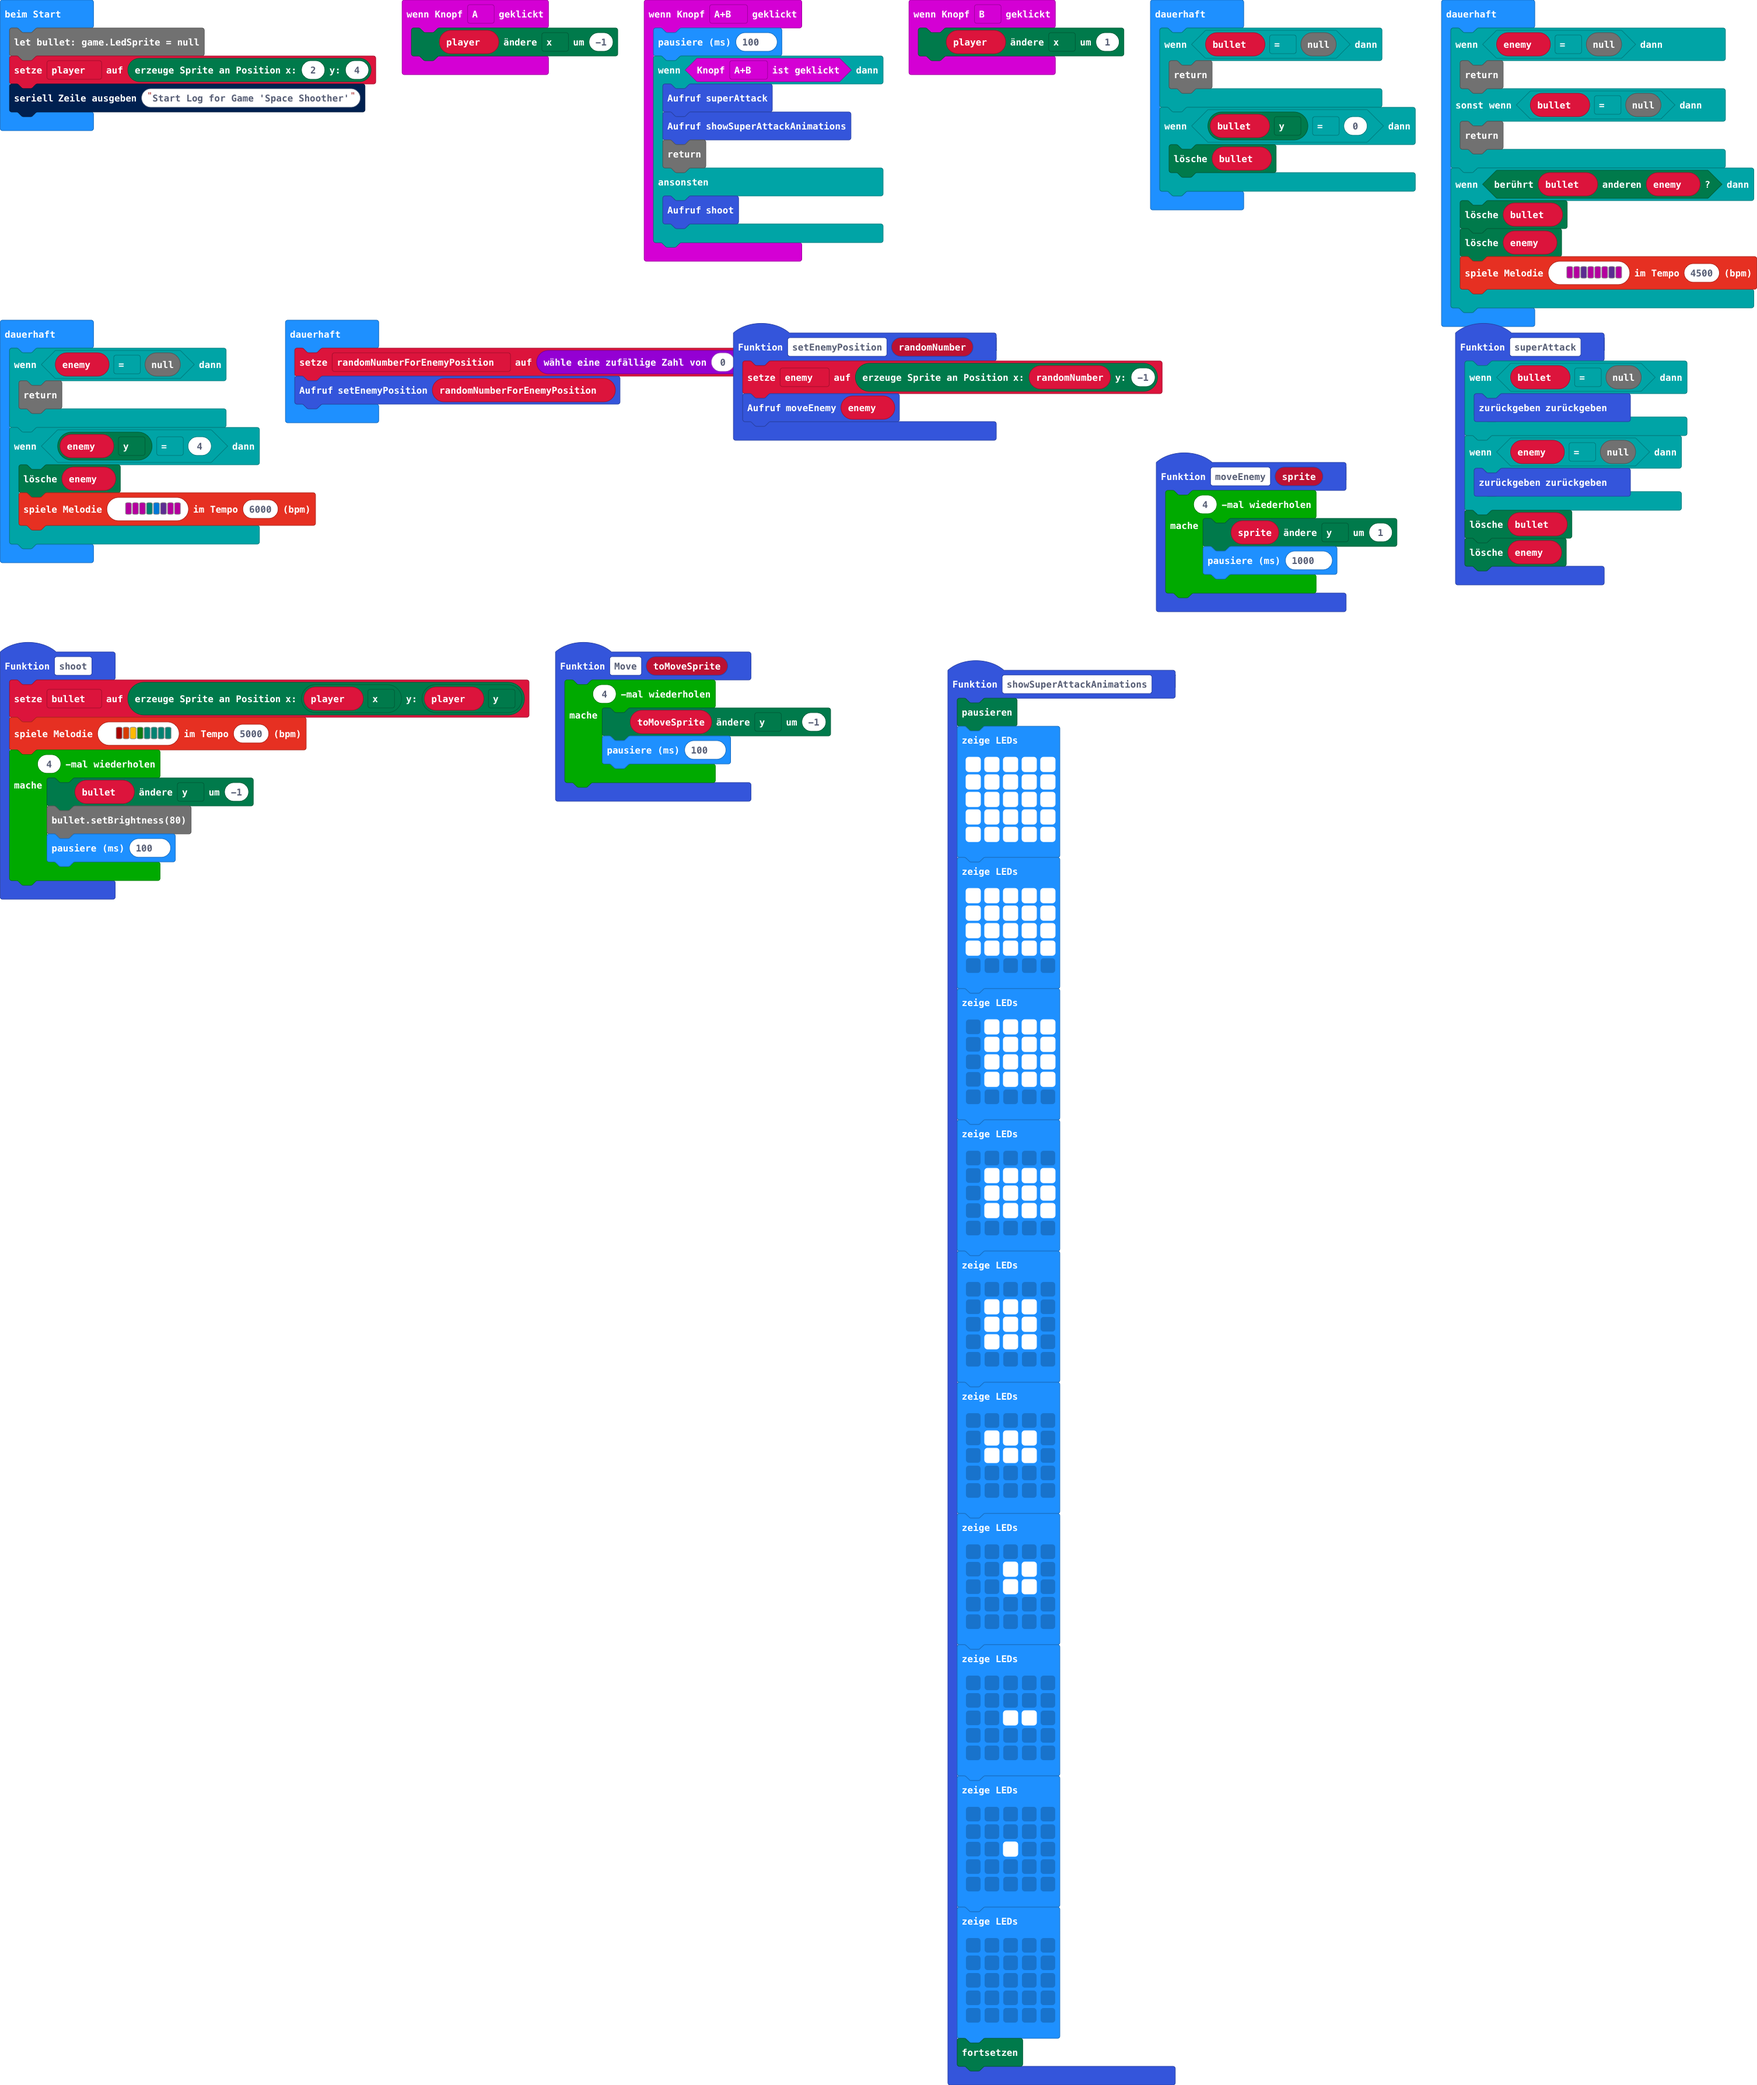
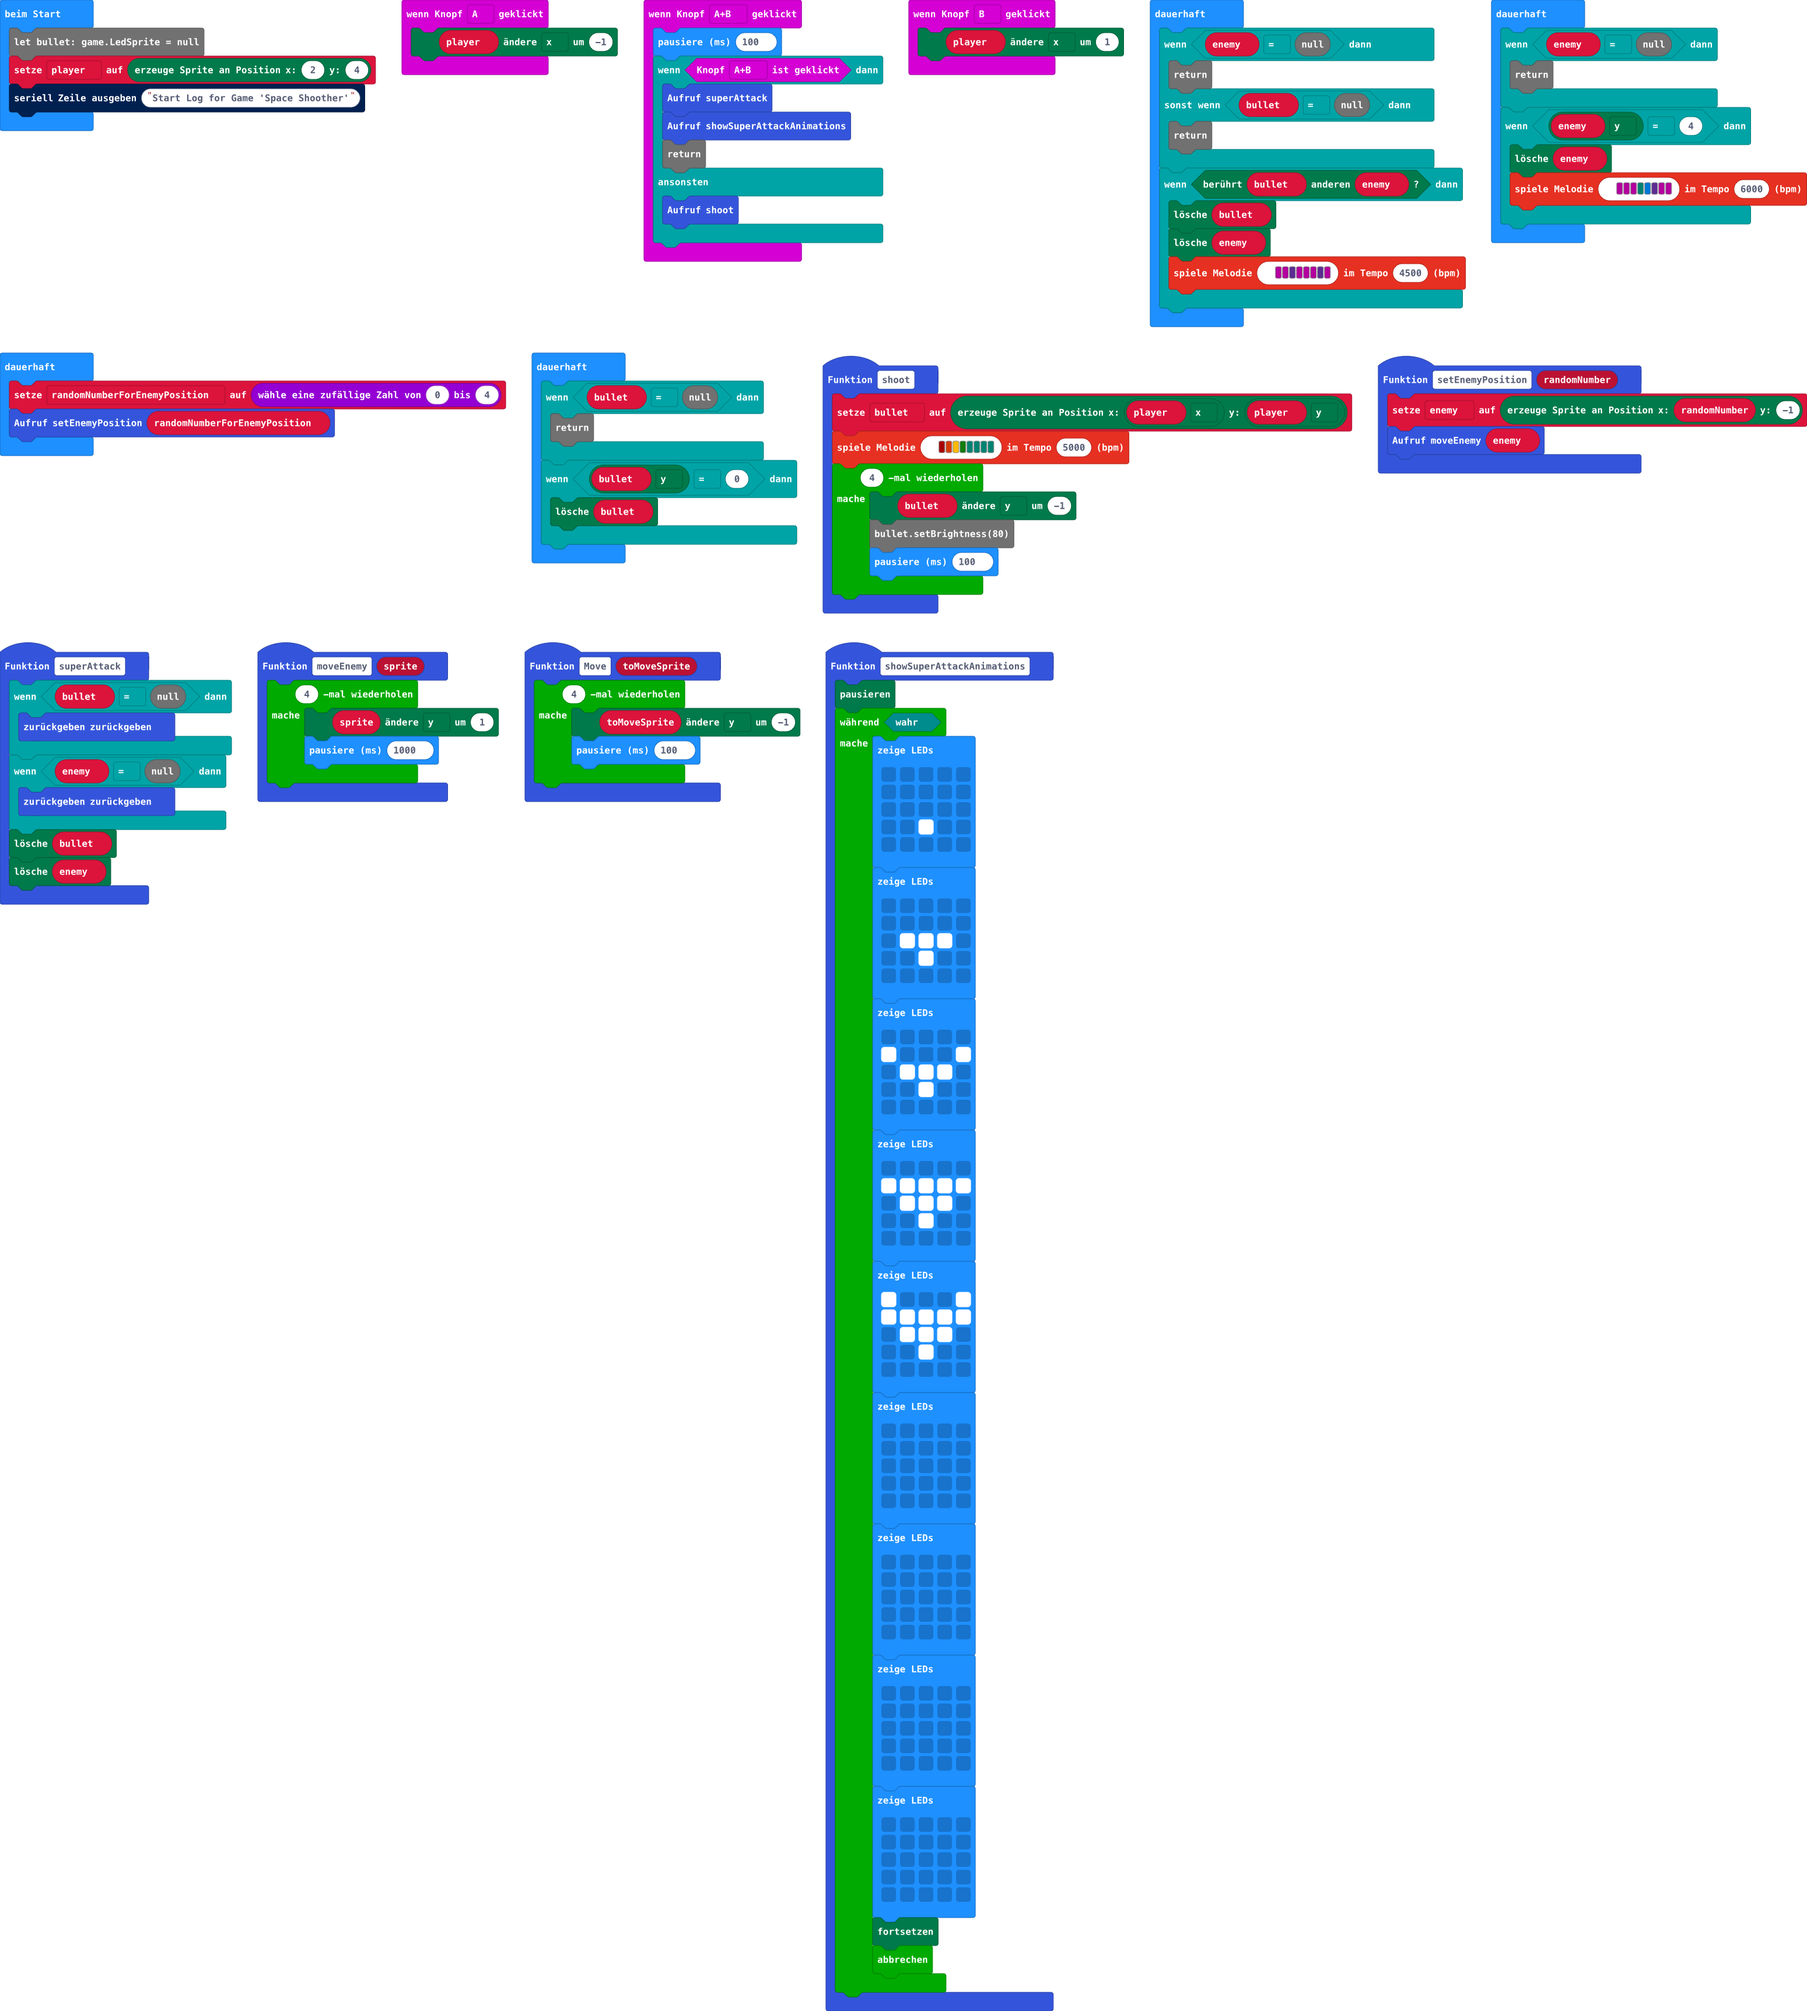
Aktualisiere pxt.json, main.blocks, main.ts

Changed region(s): [[0.0, 0.0, 1.0, 1.0]]

diff --git a/main.ts b/main.ts
@@ -3,77 +3,73 @@ input.onButtonPressed(Button.A, function () {
 })
 function showSuperAttackAnimations () {
     game.pause()
-    basic.showLeds(`
-        # # # # #
-        # # # # #
-        # # # # #
-        # # # # #
-        # # # # #
-        `)
-    basic.showLeds(`
-        # # # # #
-        # # # # #
-        # # # # #
-        # # # # #
-        . . . . .
-        `)
-    basic.showLeds(`
-        . # # # #
-        . # # # #
-        . # # # #
-        . # # # #
-        . . . . .
-        `)
-    basic.showLeds(`
-        . . . . .
-        . # # # #
-        . # # # #
-        . # # # #
-        . . . . .
-        `)
-    basic.showLeds(`
-        . . . . .
-        . # # # .
-        . # # # .
-        . # # # .
-        . . . . .
-        `)
-    basic.showLeds(`
-        . . . . .
-        . # # # .
-        . # # # .
-        . . . . .
-        . . . . .
-        `)
-    basic.showLeds(`
-        . . . . .
-        . . # # .
-        . . # # .
-        . . . . .
-        . . . . .
-        `)
-    basic.showLeds(`
-        . . . . .
-        . . . . .
-        . . # # .
-        . . . . .
-        . . . . .
-        `)
-    basic.showLeds(`
-        . . . . .
-        . . . . .
-        . . # . .
-        . . . . .
-        . . . . .
-        `)
-    basic.showLeds(`
-        . . . . .
-        . . . . .
-        . . . . .
-        . . . . .
-        . . . . .
-        `)
-    game.resume()
+    while (true) {
+        basic.showLeds(`
+            . . . . .
+            . . . . .
+            . . . . .
+            . . # . .
+            . . . . .
+            `)
+        basic.showLeds(`
+            . . . . .
+            . . . . .
+            . # # # .
+            . . # . .
+            . . . . .
+            `)
+        basic.showLeds(`
+            . . . . .
+            # . . . #
+            . # # # .
+            . . # . .
+            . . . . .
+            `)
+        basic.showLeds(`
+            . . . . .
+            # # # # #
+            . # # # .
+            . . # . .
+            . . . . .
+            `)
+        basic.showLeds(`
+            # . . . #
+            # # # # #
+            . # # # .
+            . . # . .
+            . . . . .
+            `)
+        basic.showLeds(`
+            . . . . .
+            . . . . .
+            . . . . .
+            . . . . .
+            . . . . .
+            `)
+        basic.showLeds(`
+            . . . . .
+            . . . . .
+            . . . . .
+            . . . . .
+            . . . . .
+            `)
+        basic.showLeds(`
+            . . . . .
+            . . . . .
+            . . . . .
+            . . . . .
+            . . . . .
+            `)
+        basic.showLeds(`
+            . . . . .
+            . . . . .
+            . . . . .
+            . . . . .
+            . . . . .
+            `)
+        game.resume()
+        break;
+    }
 }
 function moveEnemy (sprite: game.LedSprite) {
     for (let index = 0; index < 4; index++) {
@@ -130,14 +126,6 @@ let bullet: game.LedSprite = null
 player = game.createSprite(2, 4)
 serial.writeLine("Start Log for Game 'Space Shoother'")
 basic.forever(function () {
-    if (bullet == null) {
-        return
-    }
-    if (bullet.get(LedSpriteProperty.Y) == 0) {
-        bullet.delete()
-    }
-})
-basic.forever(function () {
     if (enemy == null) {
         return
     } else if (bullet == null) {
@@ -161,4 +149,12 @@ basic.forever(function () {
 basic.forever(function () {
     randomNumberForEnemyPosition = randint(0, 4)
     setEnemyPosition(randomNumberForEnemyPosition)
+})
+basic.forever(function () {
+    if (bullet == null) {
+        return
+    }
+    if (bullet.get(LedSpriteProperty.Y) == 0) {
+        bullet.delete()
+    }
 })
